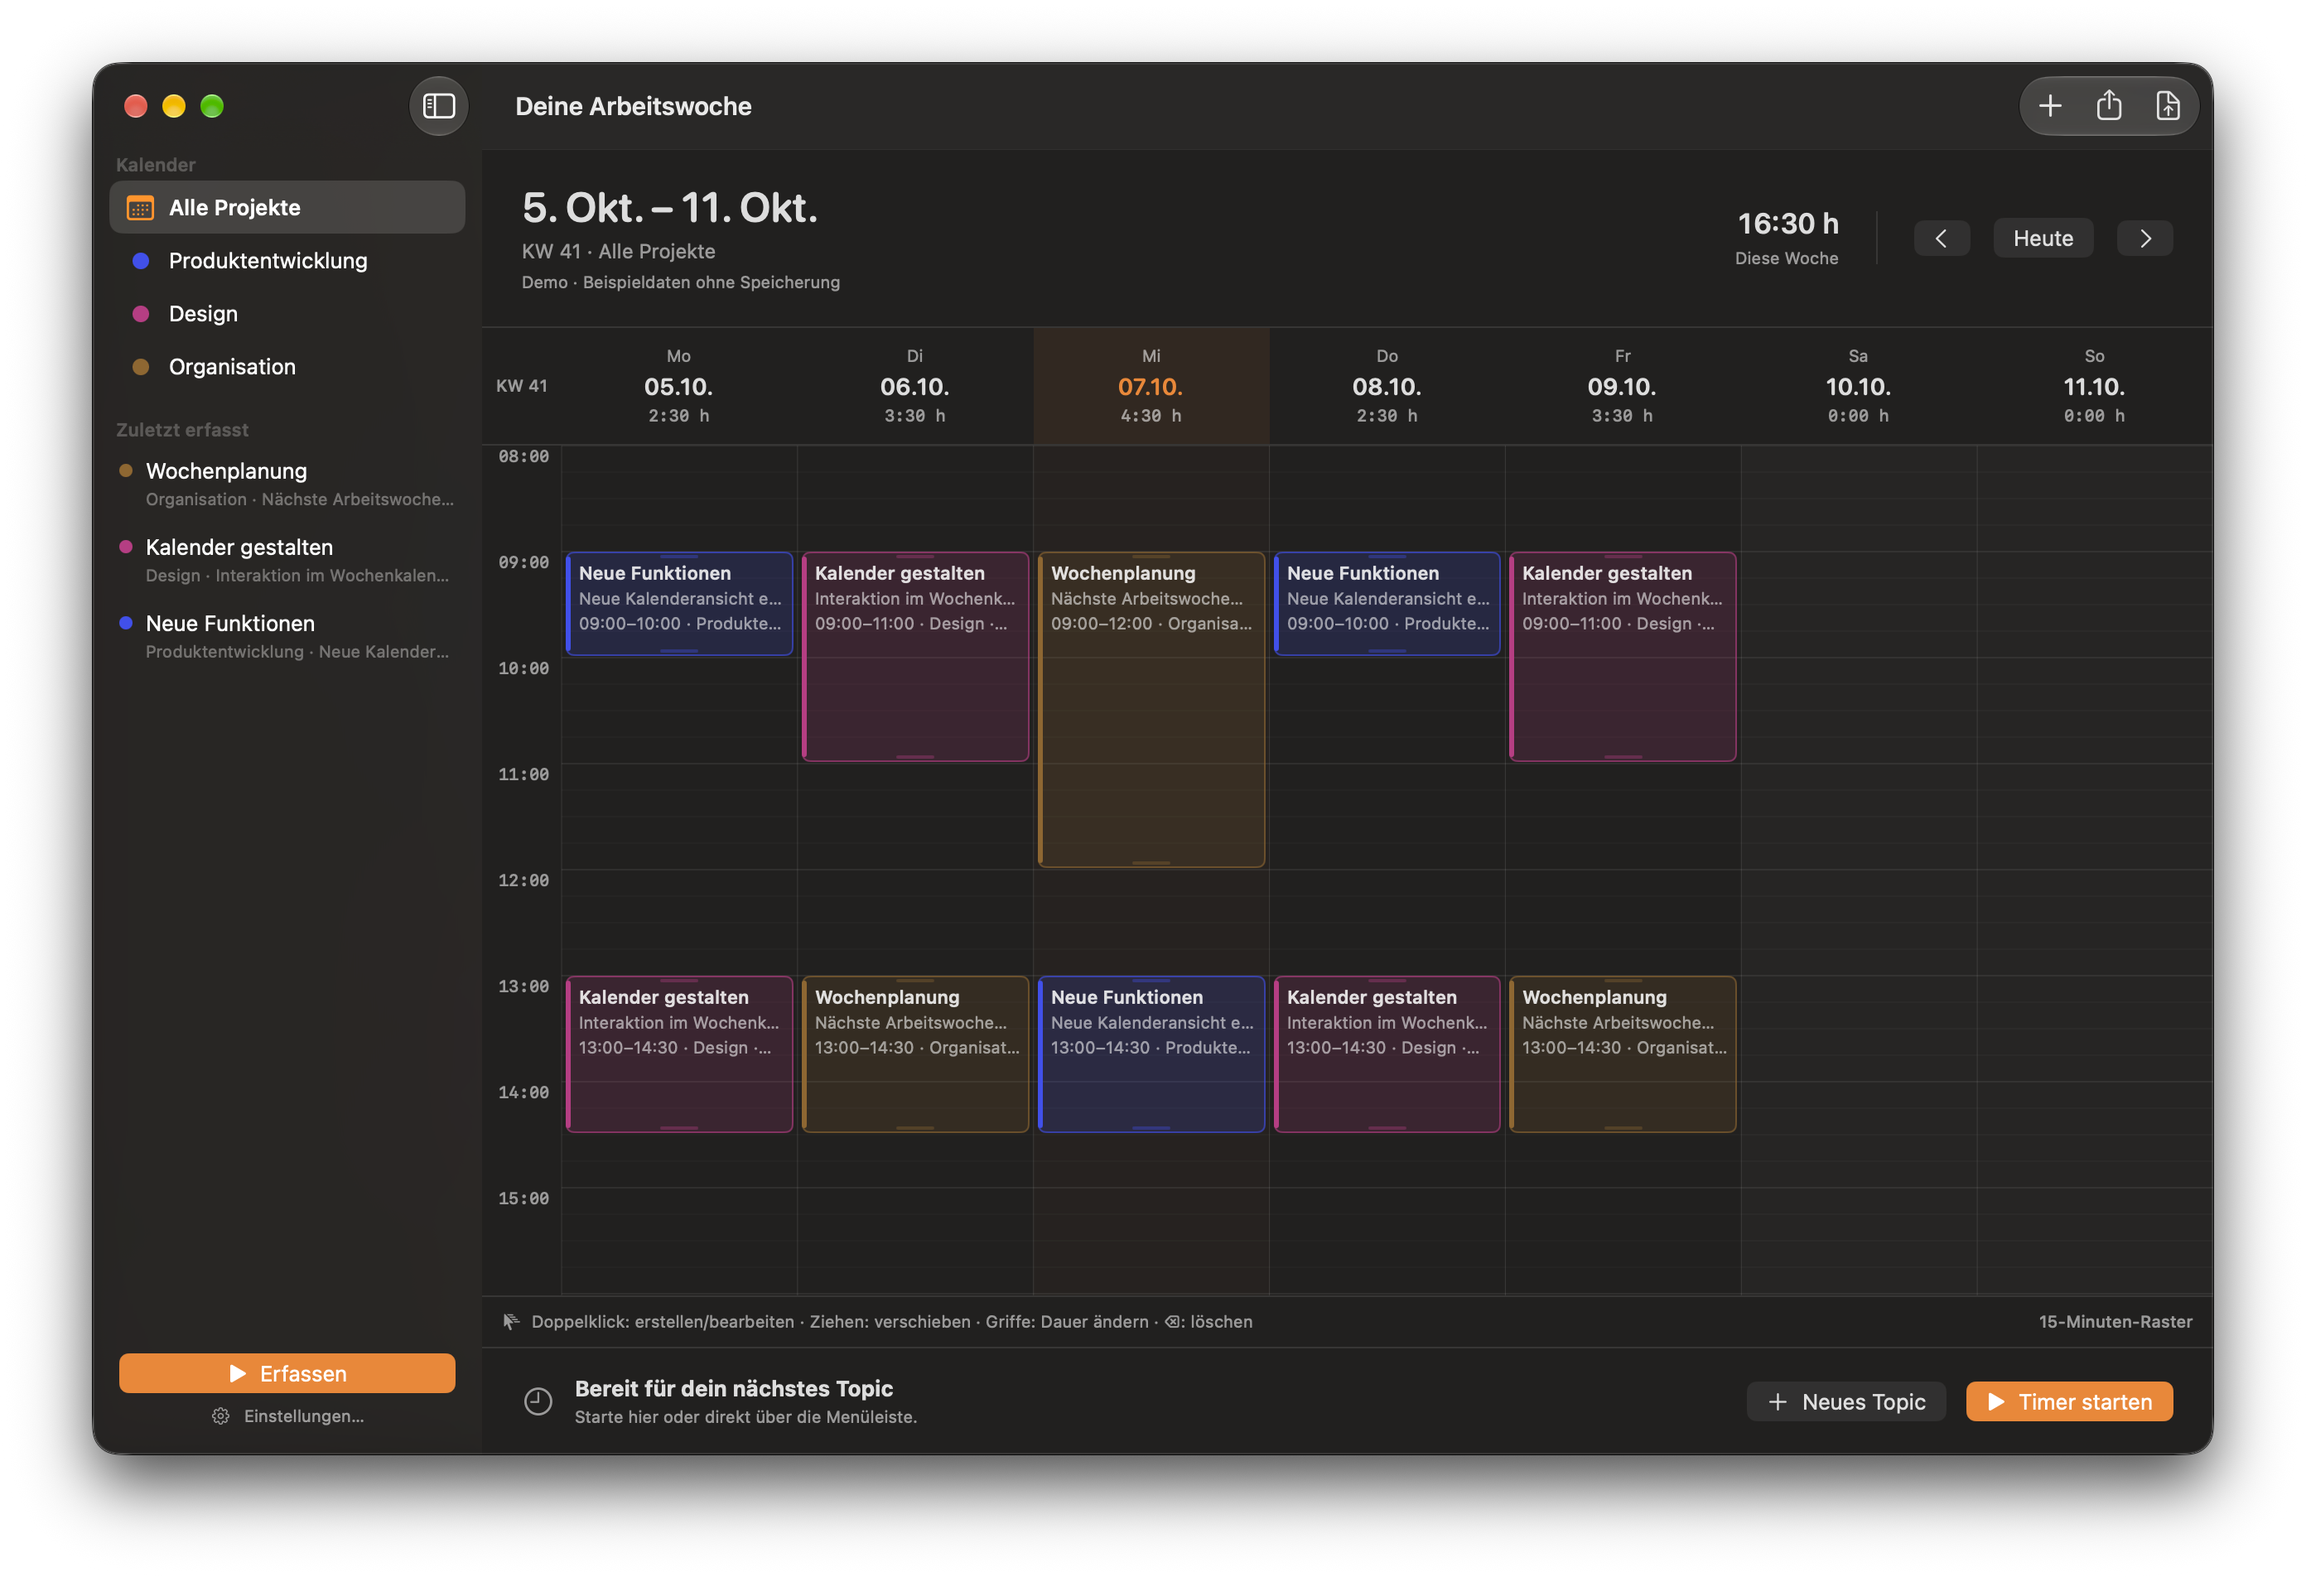
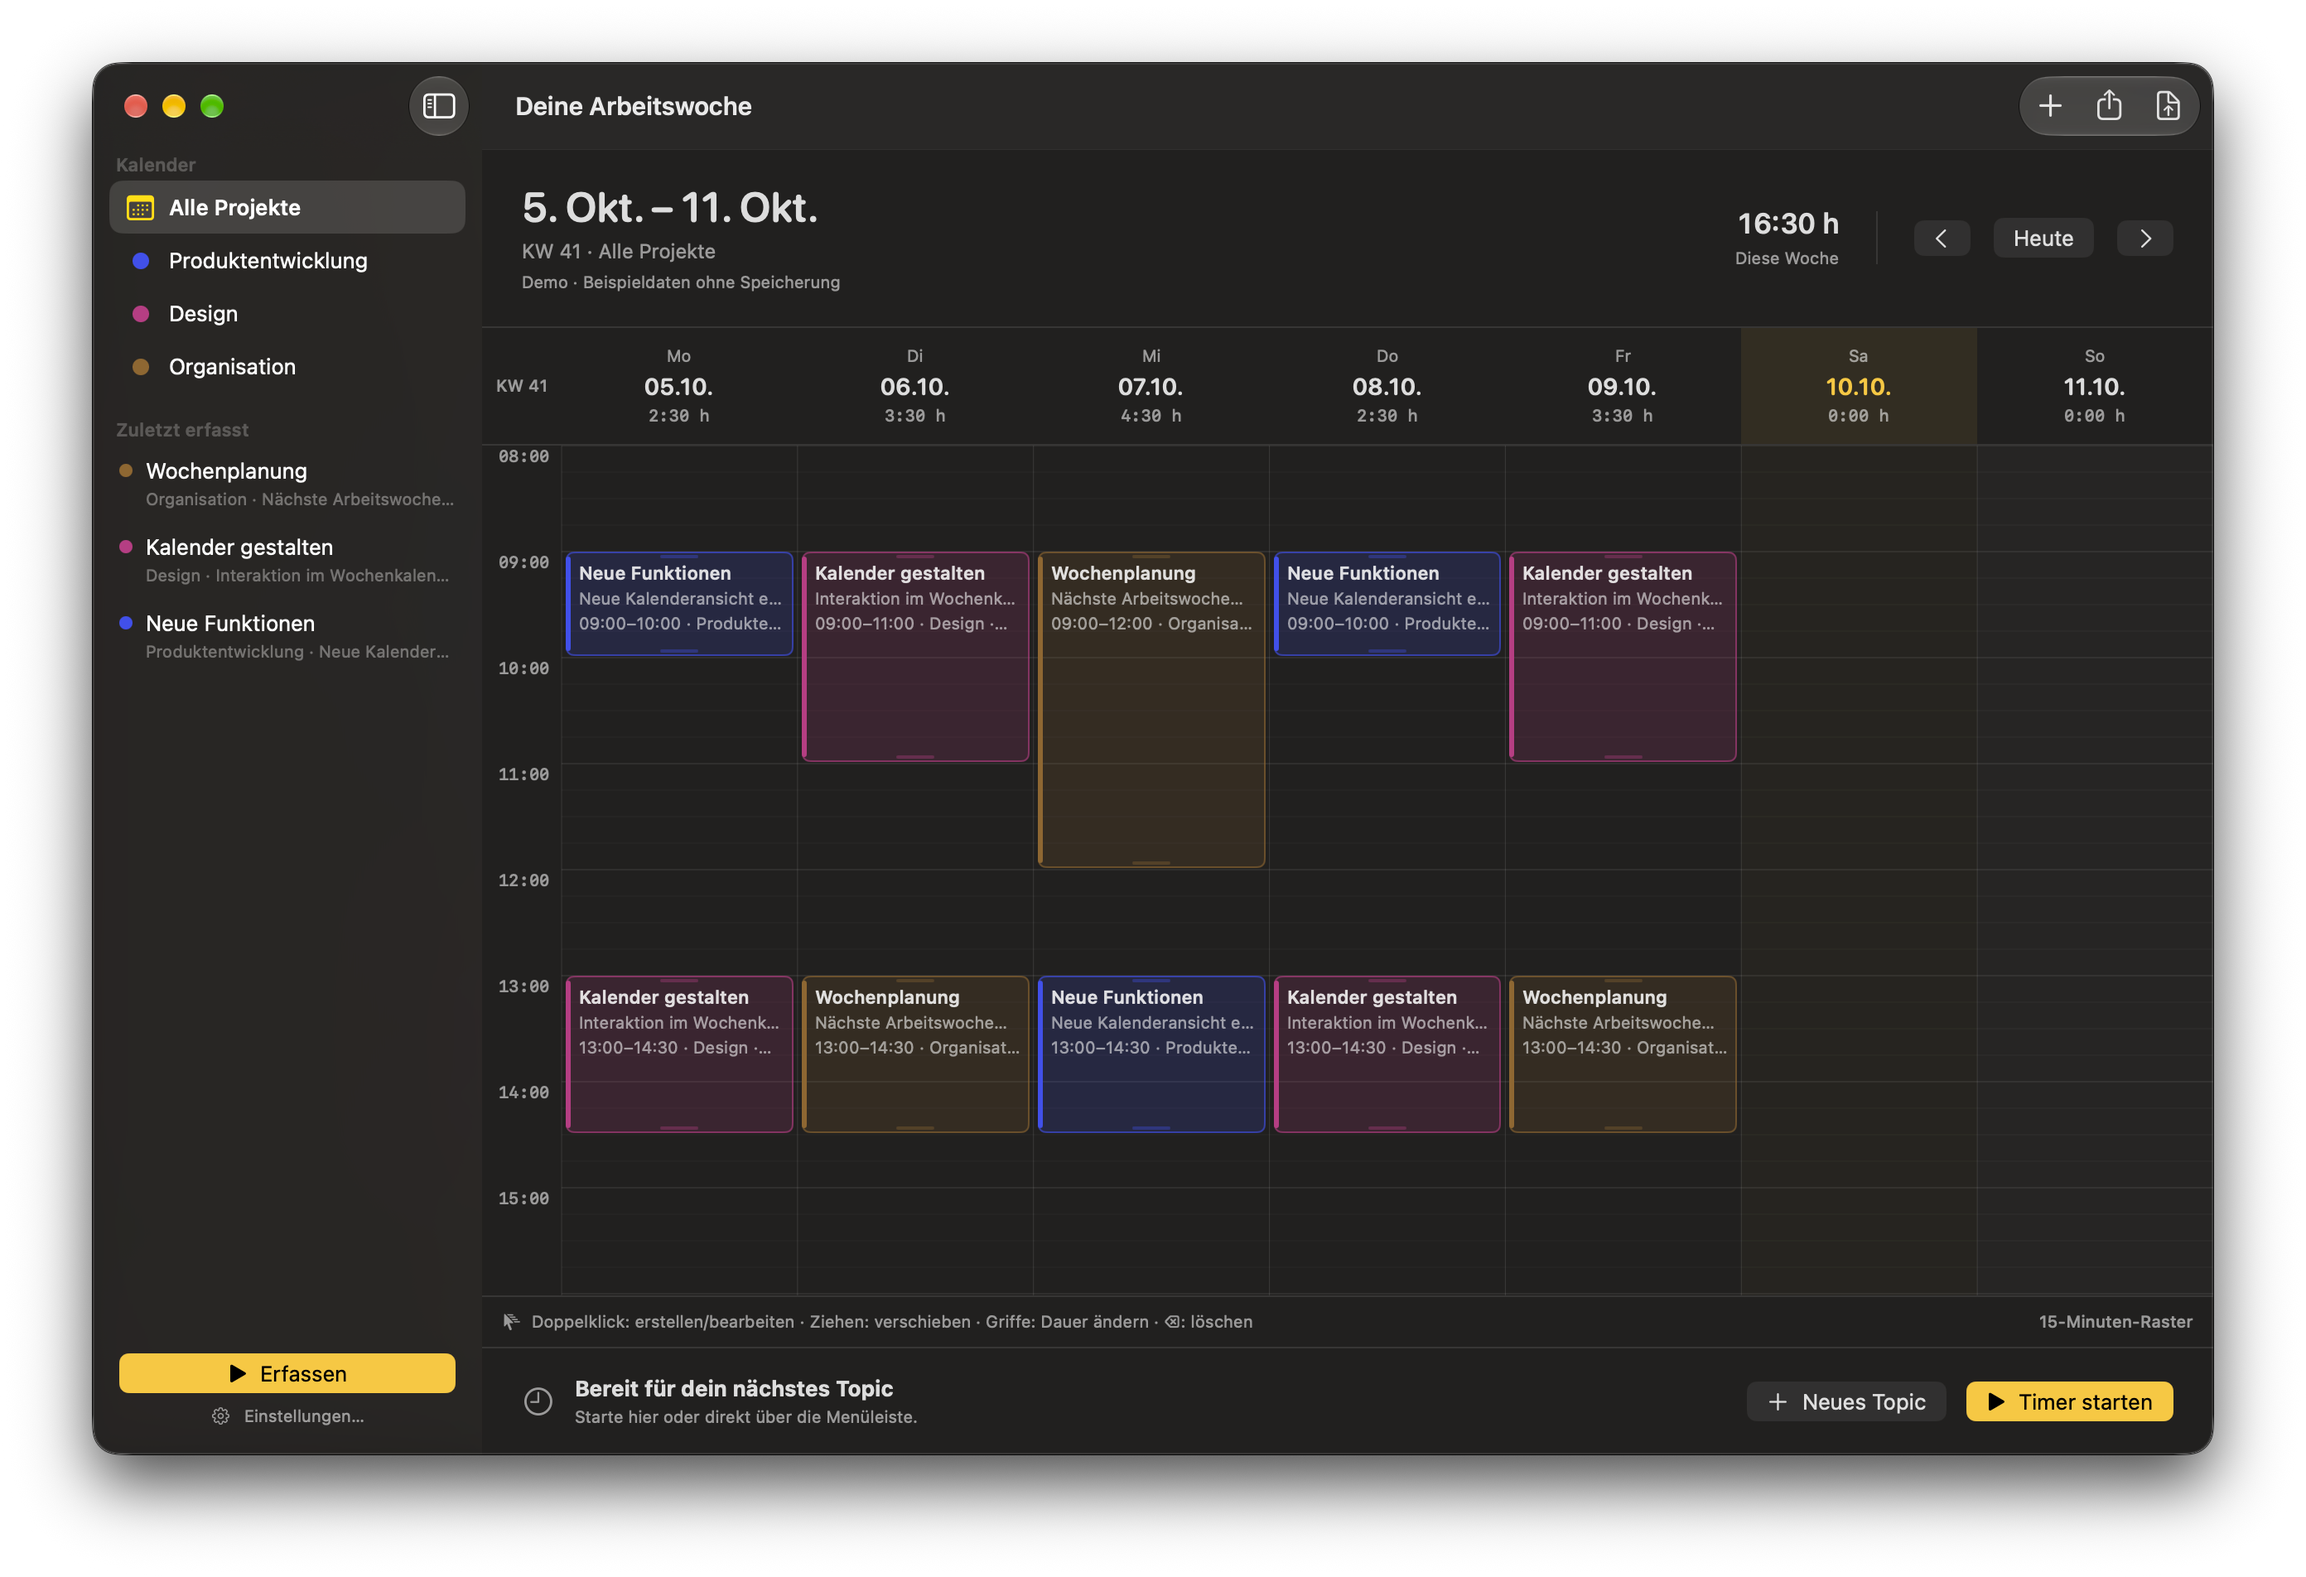
Document Time Tracker 0.8.0 with supplied demo screenshots

Changed region(s): [[0.0312, 0.8367, 0.2188, 0.8986], [0.8438, 0.8676, 0.9688, 0.8986]]

diff --git a/README.md b/README.md
@@ -17,6 +17,7 @@ This repository provides product documentation, release notes, distribution arch
 - Preselect the latest booking's optional local issue and its project for new capture, and restore the source entry's assignments when choosing a topic suggestion.
 - Start a new topic immediately from the menu bar and edit the running timer in a project-colored card that stays visible above scrollable topic history, with a combined project/issue selector, a date-and-time calendar, and a native Liquid Glass popover background.
 - Use a shared project palette with hue-preserving, contrast-adjusted brightness and consistent saturation, plus white menu-bar text and subtle daily progress.
+- Show or hide the menu-bar icon in Settings → General. The preference is saved and defaults to visible. Hiding it closes quick capture and disables its menu command and ⌘⇧T shortcut; active timers continue.
 - Manage projects, local issues, and the Tempo Cloud connection in Settings. Local issues can use a label without a Jira key; their project determines the color and filter for assigned bookings. Changing an issue's project updates its existing bookings, including the running timer, while retaining entry IDs, booking text, and time boundaries.
 - Search Jira Cloud by exact issue key, title text, or an optional JQL filter, then adopt selected issues locally. Reloading refreshes the Jira key and title while retaining the local label and project; issues from different Jira sites stay separate. Search and local adoption do not create or modify remote Jira tickets.
 - Remove an issue's Jira link while retaining its local label, project, and booking assignments.
@@ -28,11 +29,13 @@ The current interface is German. Local tracking does not require a Jira connecti
 
 The neutral CSV is **not a verified Tempo import format**. Tempo Cloud requires the user's own Jira and Tempo credentials and assigns worklogs to that user's account. Every transferred worklog requires exactly one locally maintained issue with a valid Jira link. Bookings without an issue or Jira link remain blocked while valid bookings can be imported. Live Tempo transfer and access permissions remain acceptance checks; development validation uses mocked HTTP and isolated demo data.
 
-Tempo combines completed bookings with the same exact booking text, Jira issue, required attributes, and day in the author's Jira profile time zone. Captured durations are summed before each worklog is rounded to the nearest 15 minutes, with halfway values rounded up and a minimum of 15 minutes. Worklogs transfer their date and duration without the captured start time. Local records remain unchanged.
+Tempo combines completed bookings with the same exact booking text, Jira issue, required attributes, and day in the author's Jira profile time zone. Captured durations are summed before each worklog is rounded to the nearest 15 minutes, with halfway values rounded up and a minimum of 15 minutes. Worklogs transfer their date and duration without the captured start time. Local records remain unchanged. Eligible worklogs can be adjusted in 15-minute steps before transfer, with a 15-minute minimum. Daily and selection totals, details, JSON export, and transfer use the adjusted import duration. Adjustments apply only to the current preview and reset when it is closed, reloaded, or invalidated.
 
 Choose the week and project filter in the main calendar before opening Tempo. The dialog shows the selected calendar week and date range before loading; opening it makes no network requests. Completed bookings overlapping the selected week are included in full and split at midnight in the author's Jira profile time zone. After preparation, the dialog shows the actual Tempo lookup range and explains any dates extending beyond the selected week.
 
-The resizable Tempo preview groups worklogs into collapsible days. Each day has a native checkbox with unchecked, mixed, and checked states: clicking an unchecked or mixed day selects all eligible groups, while clicking a checked day deselects them. Individual selection remains available. Imported and blocked groups stay excluded, and selection is locked during checks or transfer. Day headings remain left-aligned at the same width when expanded or collapsed; collapsing preserves the selection. Daily totals show captured time and the sum of individually rounded worklog durations without rounding the total again. JSON export and import use that same selection; deselected worklogs are omitted, and both actions are disabled when nothing importable is selected.
+The movable, resizable Tempo preview blocks only the calendar window that opened it; Settings and available menu-bar quick capture remain usable. Its width fits the displayed columns and available screen width, without horizontal scrolling. Closing and Escape are disabled during checks or transfer. Worklogs are grouped into collapsible days. Each day has a native checkbox with unchecked, mixed, and checked states: clicking an unchecked or mixed day selects all eligible groups, while clicking a checked day deselects them. Individual selection remains available. Imported and blocked groups stay excluded, and selection is locked during checks or transfer. Day headings remain left-aligned at the same width when expanded or collapsed; collapsing preserves the selection. Daily totals show captured time and the sum of adjusted import durations without rounding the total again. JSON export and import use that same selection; deselected worklogs are omitted, and both actions are disabled when nothing importable is selected.
+
+Before an import, a running timer overlapping the selected local calendar week and matching the project filter prompts you to continue or cancel. It remains excluded and keeps running. Canceling creates no reservation and sends nothing; the app checks again before the first transfer.
 
 Confirmed imports add a small sync symbol to preview rows and calendar cards, including every source booking of grouped worklogs. The symbol is a historical import receipt for at least one day portion, not a current comparison with Tempo. Its tooltip and accessibility label include the worklog ID and Jira site. The marker remains after closing the dialog, restarting the app, or editing a local booking. Pending or rejected outcomes and JSON export alone do not create a success marker. Demo receipts are labeled “Import simuliert”.
 
@@ -44,11 +47,11 @@ Required Tempo work attributes appear as immutable per-ticket preview columns. T
 
 ![Weekly calendar](assets/screenshots/weekly-calendar.png)
 
-Time Tracker 0.5.0 — weekly calendar in an isolated demo view.
+Time Tracker 0.8.0 — weekly calendar in an isolated demo view.
 
 ![Menu bar popover](assets/screenshots/menu-bar-popover.png)
 
-Time Tracker 0.5.0 — menu bar popover in an isolated demo view.
+Time Tracker 0.8.0 — menu bar popover in an isolated demo view.
 
 ## Requirements
 
